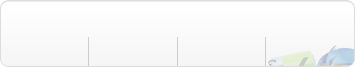
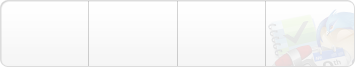
Add "Profile Setting > Package/Billing" css

diff --git a/assets/css/common/main.css b/assets/css/common/main.css
@@ -375,6 +375,12 @@ div.popup_create-company ul>li textarea {
 }
 
 /* Setting > Package/Billing */
+div.box-current_package div.detail p.thumb {
+	background-position: 4px 0px;
+	background-repeat:no-repeat;
+	width: 75px;
+	height: 75px;
+}
 div.box-current_package div.package-overlay {
 	top:171px;
 }

diff --git a/application/views/settings/package.php b/application/views/settings/package.php
@@ -5,13 +5,14 @@
 	  <div class="detail">
 		<h2><?php echo $current_package['package_name']; ?></h2>
 		<p><?php echo $current_package['package_detail']; ?></p>
-		<p class="thumb"><img src="<?php echo $current_package['package_image'] ? $current_package['package_image'] : base_url().'images/enterprise-deluxe.png' ; ?>" alt="<?php echo $current_package['package_name']; ?>" /></p>
+		<p class="thumb" style="background-image:url('<?php echo $current_package['package_image'] ? $current_package['package_image'] : base_url().'images/enterprise-deluxe.png' ; ?>');">
+		</p>
 	  </div>
 	  <ul class="detail">
-		<li><b><?php echo $user_companies.'/'.$current_package['package_max_companies']; ?></b><span>Companies</span></li>
-		<li><b><?php echo $user_pages.'/'.$current_package['package_max_pages']; ?></b><span>Pages</span></li>
-		<li><b><abbr title="<?php echo $members.'/'.$current_package['package_max_users']; ?>"><?php echo $members; ?></abbr></b><span>Members</span></li>
-		<li class="package-apps"><img src="images/enterprise-package.png" alt="" />
+		<li><b><?php echo number_format($user_companies).'/'.number_format($current_package['package_max_companies']); ?></b><span>Companies</span></li>
+		<li><b><?php echo number_format($user_pages).'/'.number_format($current_package['package_max_pages']); ?></b><span>Pages</span></li>
+		<li><b><abbr title="<?php echo number_format($members).'/'.number_format($current_package['package_max_users']); ?>"><?php echo $members; ?></abbr></b><span>Members</span></li>
+		<li class="package-apps"><img src="<?php echo str_replace('_icon_', '_app_', $current_package['package_image']);?>" alt="" />
 			<?php if($apps) { ?>
 			<div class="package-overlay" style="display:none;">
 				<ul>
@@ -50,7 +51,7 @@
 			  <td><?php echo $order['order_date']; ?></td>
 			  <td><a href="#"><?php echo $order['order_id']; ?></a></td>
 			  <td><?php echo $order['package_name']; ?></td>
-			  <td class="right"><?php echo $order['order_net_price']; ?> USD</td>
+			  <td class="right"><?php echo number_format($order['order_net_price']); ?> USD</td>
 			</tr>
 			<?php } 
 		} else { ?>
@@ -59,8 +60,8 @@
 			</tr>
 		<?php } ?>
 	  </table>
+	  <?php if($current_package['package_price'] > 0) { ?>
+	  <p style="text-align:right"><br /><a href="<?php echo base_url().'payment/cancel_package/'.$user_id; ?>">Cancel package</a></p>
+	  <?php } ?>
 	</div>
   </div>
-  <?php if($current_package['package_price'] > 0) { ?>
-  <p><a href="<?php echo base_url().'payment/cancel_package/'.$user_id; ?>">Cancel package</a></p>
-  <?php } ?>
